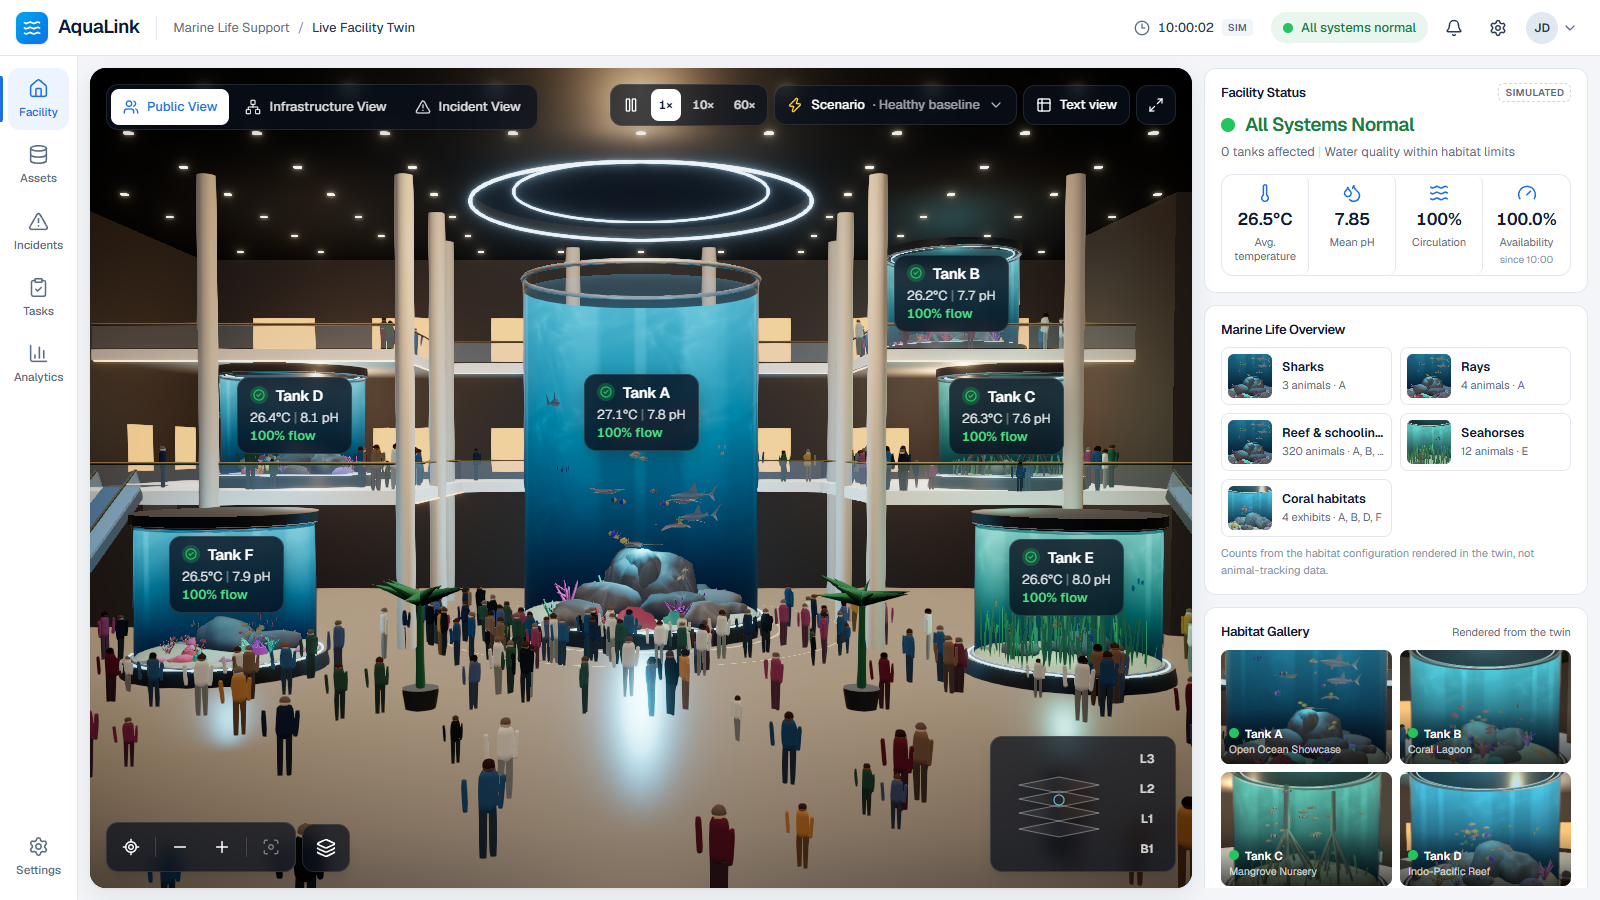
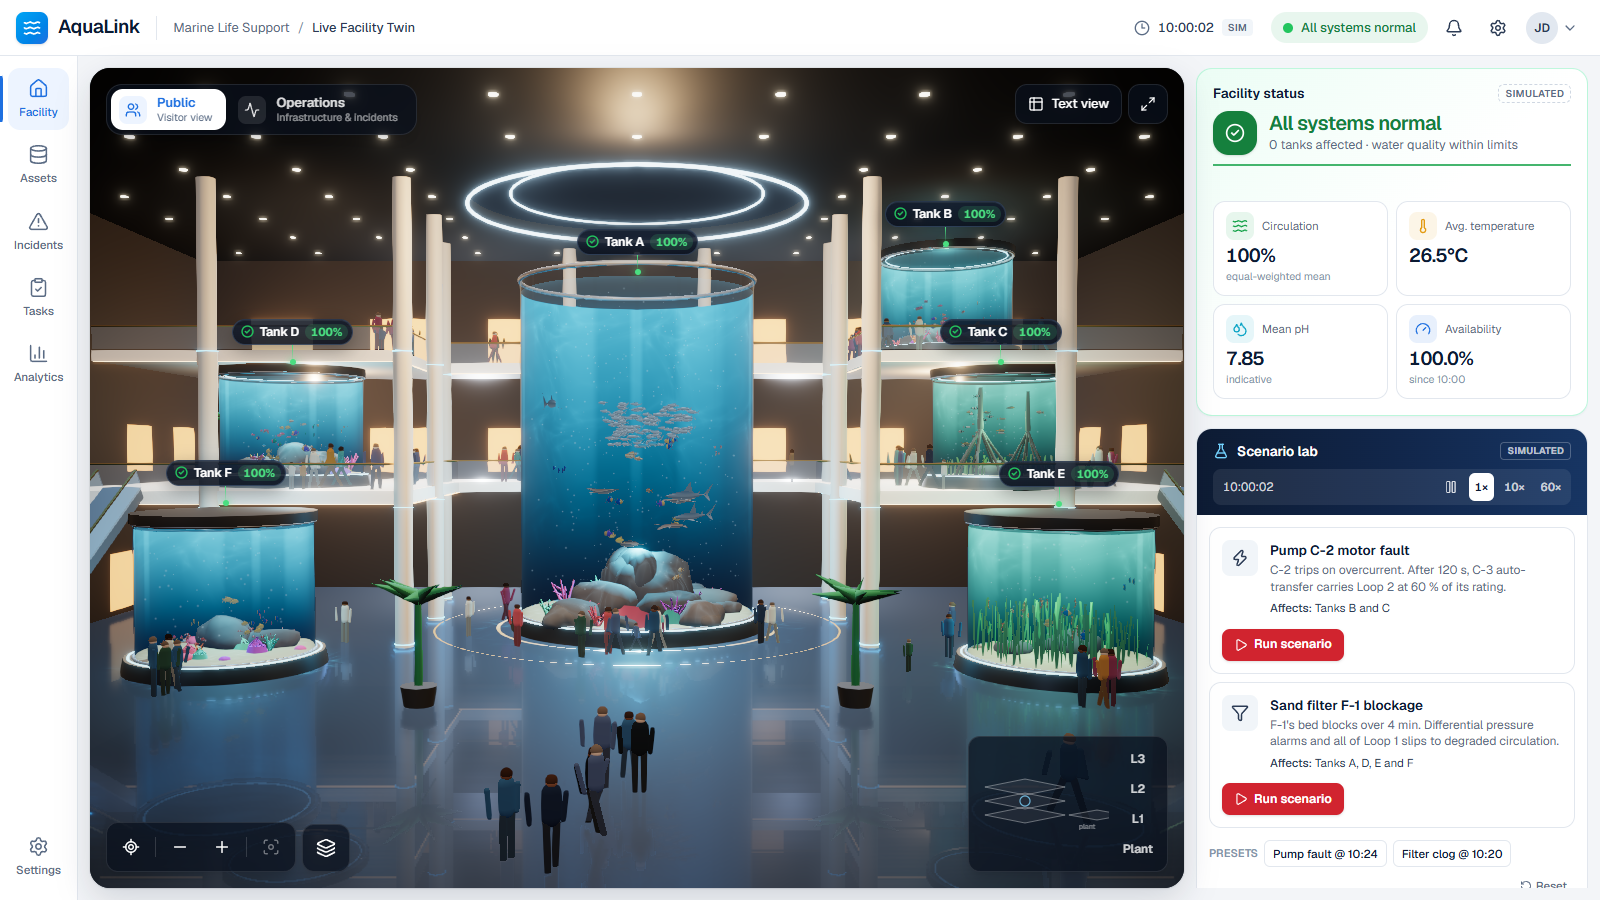
Docs and screenshots for the two-mode overhaul; compact timeline fit
- README: Public/Operations views, both scenarios, heal effect, plant hall
  behind the atrium, species follow, updated demo script and keys.
- SIMULATION.md: filter blockage model (capacity limit, ΔP formula,
  83.3 % derivation, timeline, backwash) and the new preset.
- Fresh screenshots from the production build; drop the old
  infrastructure/incident shots.
- Timeline list sized to exactly four rows; expose controls on the
  debug handle for headless camera checks.

diff --git a/src/components/viewer/ViewerOverlays.tsx b/src/components/viewer/ViewerOverlays.tsx
@@ -305,7 +305,7 @@ function TimelineList({ events, tone }: { events: SimEvent[]; tone: (k: string, 
     if (el) el.scrollTop = el.scrollHeight;
   }, [events.length]);
   return (
-    <ol ref={ref} className="scroll-thin max-h-[104px] space-y-0.5 overflow-y-auto border-t border-white/10 px-3 pt-1.5 pb-2">
+    <ol ref={ref} className="scroll-thin max-h-[100px] space-y-0.5 overflow-y-auto border-t border-white/10 px-3 pt-1.5 pb-2">
       {events.map((e) => (
         <li key={e.id} className="flex min-w-0 items-center gap-2 text-[12px] leading-5" title={e.detail}>
           <span aria-hidden className="size-2 shrink-0 rounded-full" style={{ background: tone(e.kind, e.severity) }} />

diff --git a/README.md b/README.md
@@ -3,12 +3,22 @@
 **Every tank. Every connection. One clear next action.**
 
 AquaLink is a 3D life-support digital twin for a public aquarium. One facility,
-one 3D world, three ways to understand it:
+one 3D world, two ways to understand it:
 
-| Public View | Infrastructure View | Incident View |
+| Public view | Operations view |
+|---|---|
+| ![Public view](docs/screenshots/public-view.png) | ![Operations view](docs/screenshots/operations-view.png) |
+| The visitor-facing atrium: six habitats, marine life, visitors walking between tanks, compact tank labels, facility status, the Scenario lab and a per-tank marine-life list. | The same building as a dollhouse: the life-support plant hall behind the atrium with pumps, filters, valves and every routed pipe showing live flow. When something fails it reframes onto the fault and everything it affects. |
+
+| Pump C-2 fault | Filter F-1 blockage | Healed |
 |---|---|---|
-| ![Public View](docs/screenshots/public-view.png) | ![Infrastructure View](docs/screenshots/infrastructure-view.png) | ![Incident View](docs/screenshots/incident-view.png) |
-| The visitor-facing atrium: six habitats, marine life, visitors, compact tank labels and facility status. | The same building cut away to reveal B1 pumps, filters, valves, sensors and the routed pipe network with live flow direction. | The same geometry focused on a fault: failed pump, interrupted path, backup flow, affected tanks, root cause, timeline and next actions. |
+| ![Pump C-2 fault](docs/screenshots/pump-incident.png) | ![Filter F-1 blockage](docs/screenshots/filter-incident.png) | ![Heal effect](docs/screenshots/heal-effect.png) |
+| C-2 trips; a red wave runs down its pipes and rings mark Tanks B and C. C-3 picks up Loop 2 at 60 % of its rating. | F-1's sand bed blocks; differential pressure alarms and all four Loop 1 tanks drop to degraded circulation. | After the authorised restart or backwash, green rings sweep the root asset and the tanks it feeds. |
+
+| Plant hall behind the atrium | Following a species |
+|---|---|
+| ![Plant hall](docs/screenshots/plant-hall.png) | ![Species follow](docs/screenshots/species-follow.png) |
+| Orbit 180° from the visitor view (or pick *Plant*) and the back wall cuts away to show the plant hall. | Click a species under its tank and the camera flies in and follows it through the glass. |
 
 All operational data is **simulated** and labelled as such. AquaLink does not
 connect to, or operate, real equipment.
@@ -29,9 +39,10 @@ simulated time.
 
 Useful URLs:
 
-- `http://localhost:3000/?scenario=incident&mode=incident` — the reference incident at 10:24 (C-2 fault, C-3 backup, Tank B 45 %, Tank C 50 %)
+- `http://localhost:3000/?scenario=incident&mode=operations` — the reference incident at 10:24 (C-2 fault, C-3 backup, Tank B 45 %, Tank C 50 %)
 - `http://localhost:3000/?scenario=baseline&mode=public` — healthy baseline
-- `http://localhost:3000/?scenario=onset&mode=infrastructure` — moments after the trip, before the backup starts
+- `http://localhost:3000/?scenario=filter&mode=operations` — sand filter F-1 blocked, at 10:20 (Tanks A, D, E and F at 83 %)
+- `http://localhost:3000/?scenario=onset&mode=operations` — moments after the C-2 trip, before the backup starts
 - add `&select=PMP-C2` (or any asset id) to open an asset's details
 
 Production build:
@@ -43,29 +54,36 @@ npm start
 
 ## Recommended 60–90 second demo
 
-1. **Public aquarium (0–15 s).** Start at `?scenario=baseline`. Orbit the atrium (drag), zoom (wheel), click Tank A — the panel shows readings against habitat limits, supply pumps and a render of the habitat.
-2. **Reveal infrastructure (15–30 s).** Press **2** or choose *Infrastructure View*. The building ghosts away and the B1 plant room appears under the same tanks. Click Pump C-2: its downstream dependents (Tanks B and C), and the C-3 backup path, are traced; everything else dims.
-3. **Trigger the failure (30–45 s).** *Scenario → Simulate C-2 failure.* The engine fast-forwards through the transient: C-2 trips, B and C lose circulation, the low-flow alarm fires, auto-transfer starts C-3 and the loop stabilises at 45 % / 50 %.
-4. **Understand the incident (45–60 s).** Press **3**. Red C-2, amber backup flow, reduced tanks, the root cause (*motor overcurrent — confirmed by the simulated current signal*), backup coverage and the grouped timeline.
-5. **Take action (60–75 s).** Open *Tasks*: assign "Verify C-3 backup operation" to a technician, tick a checklist step, record a note, raise a simulated work order.
-6. **Hand over (75–90 s).** Press **H** (or *Prepare handover*). The report is generated from the current state — incident, affected tanks, backup status, completed and pending tasks, assignees, notes and recent events — and can be copied or downloaded.
-
-Finish with *Scenario → Recovery* to restore normal service, then *Healthy baseline*.
+1. **Public aquarium (0–15 s).** Start at `?scenario=baseline`. Orbit the atrium (drag), zoom (wheel). Under *Habitats & marine life*, click a species (for example Blacktip reef sharks under Tank A): the camera flies into the tank and follows it. Drag to let go.
+2. **Look behind the scenes (15–30 s).** Orbit 180°: the back wall cuts away and the plant hall sits behind the atrium. Press **2** for *Operations*: the whole building becomes a dollhouse with live flow in every pipe. Click Pump C-2 to trace what it feeds; everything else dims.
+3. **Trigger a failure (30–45 s).** In the *Scenario lab*, choose *Run scenario* on **Pump C-2 motor fault**. The camera swings round to the fault, a red wave runs down the pipes from C-2 and rings mark Tanks B and C. The engine fast-forwards the transient: low-flow alarm, auto-transfer to C-3, stable at 45 % / 50 %.
+4. **Understand the incident (45–60 s).** The panel shows C-2's root cause (*motor overcurrent — confirmed by the simulated current signal*), the two affected tanks, backup coverage and recommended actions; the compact incident timeline sits bottom-left.
+5. **Take action (60–75 s).** Open *Tasks*: assign "Verify C-3 backup operation" to a technician, tick a checklist step, record a note, raise a simulated work order. Press **H** for the shift handover, generated from the current state.
+6. **Heal it (75–90 s).** Back in the Scenario lab, choose *Authorized C-2 restart*: green rings sweep C-2 and the tanks as circulation returns. Then try the second scenario, **Sand filter F-1 blockage**, and heal it with *Backwash F-1*.
 
 ## What is in the app
 
 **One shared 3D world (React Three Fiber).** Tanks A–F keep the same IDs and
-coordinates in every mode. Modes change camera, visibility layers, architectural
+coordinates in both modes. Modes change camera, visibility layers, architectural
 ghosting and emphasis — never topology. The scene includes:
 
-- multilevel atrium (L1–L3) with gallery decks, glass balustrades, cove lighting, columns, escalators, skylight and visitors;
+- multilevel atrium (L1–L3) with gallery decks, glass balustrades, cove lighting, columns, escalators, skylight and a reflective floor;
+- visitors who walk from tank to tank, stop to look, and now and then take a photo (with a small flash);
 - six habitats with analytic water volume (Beer–Lambert haze from the view-ray chord through the cylinder), interior caustics and light shafts, Fresnel glass, sand, rocks, corals, anemones, seagrass and mangrove roots;
 - GPU-animated marine life (sharks, rays, a trevally shoal, reef fish, clownfish, seahorses) — counts come from the habitat configuration;
-- the restricted B1 plant room with modeled pumps (motor, coupling guard, volute, nozzles, status beacon), sand filters, valves with actuators and position indicators, sensors, headers, and every pipe routed in 3D, including risers in the service shafts;
-- flow shaders whose direction and speed follow simulated edge flow; a stopped pump never shows flow.
+- the life-support plant hall behind the atrium (not below it) with modeled pumps (motor, coupling guard, volute, nozzles, status beacon), sand filters, valves with actuators and position indicators, sensors, headers, and every pipe routed in 3D under the floor and along the deck soffits; walls between the camera and the subject fade out, so orbiting never ends on a blank wall;
+- flow shaders whose direction and speed follow simulated edge flow; a stopped pump never shows flow;
+- fault and heal effects: a red wave travelling along the affected pipes, pulsing rings and halos on the root asset and every affected tank, and green rings and sparkles when it recovers.
 
-**Labels** are real HTML, projected every frame, occlusion-tested in the public
-view, de-cluttered by priority, and keyboard focusable.
+**Labels** are compact HTML pills with a stem to their asset, projected every
+frame, de-cluttered by priority, and keyboard focusable. Details expand only on
+hover or selection, so labels stay out of the way of the tanks.
+
+**Scenarios.** Two simulated failures, run from the *Scenario lab* under
+Facility status: **Pump C-2 motor fault** (Tanks B and C; healed by an authorised
+restart) and **Sand filter F-1 blockage** (Tanks A, D, E and F; healed by a
+backwash). Each tile shows its progress (trip or clog → alarm → backup or
+degraded → stable → healed). One scenario runs at a time.
 
 **Operations.** Facility status, network overview and flow distribution, a
 tabbed asset inspector (Overview · Live Data · Connections · History), asset
@@ -95,7 +113,7 @@ numbers are documented in **[docs/SIMULATION.md](docs/SIMULATION.md)**.
 
 ## Accessibility
 
-- Keyboard: **1 / 2 / 3** switch modes, **T** text view, **R** reset camera, **F** focus selection, **Esc** clear selection, **Space** pause, **H** handover, **?** shortcuts.
+- Keyboard: **1** Public, **2** Operations, **T** text view, **R** reset camera, **F** focus selection, **Esc** clear selection, **Space** pause, **H** handover, **?** shortcuts.
 - Every 3D label is a focusable button with a descriptive accessible name.
 - **Text view** presents all essential facility, equipment and incident information as tables; it is also the automatic fallback when WebGL is unavailable.
 - Status is never colour-only: every state has text and a distinct icon.
@@ -106,7 +124,7 @@ numbers are documented in **[docs/SIMULATION.md](docs/SIMULATION.md)**.
 
 | Check | Command | Result |
 |---|---|---|
-| Simulation vs. reference scenario | `npm run sim:check` | 31 / 31 checks pass |
+| Simulation vs. reference scenarios | `npm run sim:check` | 39 / 39 checks pass |
 | TypeScript (strict) | `npm run typecheck` | no errors |
 | ESLint | `npm run lint` | no errors |
 | Production build | `npm run build` | succeeds |
@@ -114,8 +132,8 @@ numbers are documented in **[docs/SIMULATION.md](docs/SIMULATION.md)**.
 
 `scripts/acceptance.mjs` drives the real app with `playwright-core` and the
 locally installed Chrome (`CHROME_PATH` overrides the path). It covers: shared
-scene positions across modes, healthy baseline, failure impact, cross-view
-consistency (B 45 % / C 50 % in every view and panel), backup activation, the
+scene positions across both modes, healthy baseline, failure impact, cross-view
+consistency (B 45 % / C 50 % in both views and panels), backup activation, the
 83 % aggregate, asset inspection, real 3D orbit/zoom, the assign → step → note →
 handover workflow, recovery and reset, accessibility checks, and console
 errors / broken images / section navigation.

diff --git a/docs/SIMULATION.md b/docs/SIMULATION.md
@@ -35,7 +35,8 @@ Returns: Tanks A, D, E, F ─► RH-1 ─► V-110 ─► FLT-1        Returns: 
 
 The physical routing of each pipe (`PIPE_ROUTES`) is stored separately from the
 graph. The graph says *what* is connected; the routes say *where* the pipe runs
-(B1 headers, risers in the service shafts, branches under the gallery decks).
+(headers in the plant hall behind the atrium, supply and return mains under the
+atrium floor, upper-level branches along the deck soffits).
 
 ## 2. Hydraulic solver
 
@@ -51,6 +52,10 @@ Each simulated second:
 6. Suction and return flows follow from mass balance.
 
 Tank circulation % = accepted tank flow ÷ tank design flow.
+
+A sand filter feeds its loop's duty pump. Its **throughput capacity** is
+`capacity × (1 − blockage)`; a pump fed by a filter can offer no more than that,
+whatever its rating. A clean F-1 (1000 m³/h) never limits C-1.
 
 ## 3. Reference configuration
 
@@ -102,6 +107,36 @@ Recovery (`Recover` control) records an authorised restart of C-2 (30 s ramp). T
 seconds after C-2 is confirmed running, C-3 returns to standby and V-301 closes.
 The incident resolves once the root pump is running and every affected tank has
 been at ≥ 90 % for 30 s.
+
+## 4b. Filter blockage sequence (second scenario)
+
+The *Sand filter F-1 blockage* scenario (`inject-clog FLT-1`) blocks F-1's bed
+linearly from 0 % to **30 %** over **240 s**. Differential pressure across the bed
+is modelled as
+
+```
+ΔP = 18 + 30 × (throughput ÷ loop design)² + 120 × blockage   kPa
+```
+
+so a clean bed at design flow reads 48 kPa. At 30 % blockage F-1 passes
+0.70 × 1000 = 700 m³/h. Loop 1 needs 840 m³/h, and HDR-1 shares the shortfall in
+proportion to design flow, so **every Loop 1 tank settles at 700 ÷ 840 = 83.3 %**
+and F-1 reads **75 kPa**. Loop 2 (Tanks B and C) is untouched. Timeline of the
+preset (blockage starts at 10:04:00):
+
+| Sim time | Event | Rule |
+|---|---|---|
+| 10:05:53 | F-1 high differential pressure; incident opened | ΔP > 62 kPa for 20 s → root cause *confirmed* by the ΔP signal |
+| 10:08:15 | Tanks A, D, E and F circulation degraded (one grouped warning) | Flow < 90 % for 60 s |
+| 10:08:44 | Tanks A, D, E and F stabilised at partial circulation | Affected flows unchanged for 45 s |
+| 10:18:44 | Four tanks remain affected | Status every 10 min while unresolved |
+
+Aggregate circulation at 10:20 is (4 × 83.3 + 2 × 100) ÷ 6 = 88.9 % → **89 %**
+(shortfall 11 %).
+
+**Backwash** (the heal action) reverses the blockage over 90 s. The incident
+resolves once F-1 is clean and every affected tank has been at ≥ 90 % for 30 s —
+10:22:02 when the backwash is started at 10:20:01.
 
 ## 5. Thresholds
 
@@ -160,9 +195,10 @@ Presets (`src/lib/simulation/scenario.ts`, also via URL):
 | Healthy baseline | `?scenario=baseline` | 10:00:00, all normal |
 | Reference incident | `?scenario=incident` | 10:24:00, C-2 fault, C-3 backup, B 45 %, C 50 % |
 | Fault onset | `?scenario=onset` | 10:10:20, C-2 tripped, before backup start |
+| Filter blockage | `?scenario=filter` | 10:20:00, F-1 30 % blocked, Tanks A, D, E and F at 83 % |
 
-`?mode=public|infrastructure|incident` and `?select=<asset id>` can be combined
-with any preset.
+`?mode=public|operations` and `?select=<asset id>` can be combined with any
+preset. The older `mode=infrastructure` and `mode=incident` links open Operations.
 
 ## 9. What the simulation does not do
 
